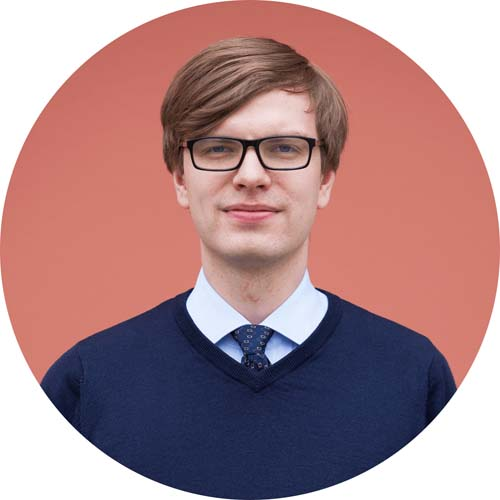
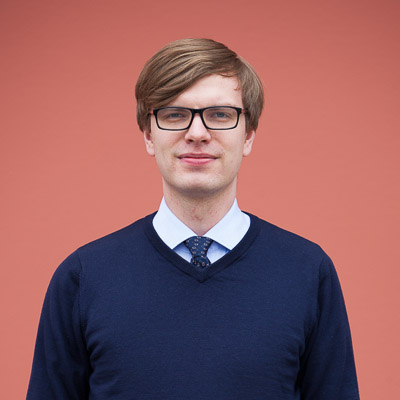
cards in progress

diff --git a/src/components/Projects.js b/src/components/Projects.js
@@ -26,48 +26,48 @@ export default class Projects extends React.Component {
                 <div className="projects">
                     <h3>2017 - WIMMA Lab</h3>
                     <div className="project">
-                    <a href="#">
-                        <div className="icon">
-                            <img src={Overflow} alt="Overflow"/>
-                        </div>
-                        <div className ="projects-text">
-                            <p>Overflow builds a Software Defined Network to Challenge Factory 2016.
-                            </p>
-                        </div>
-                    </a>
+                        <a href="#">
+                            <div className="icon">
+                                <img src={Overflow} alt="Overflow"/>
+                            </div>
+                            <div className ="projects-text">
+                                <p>Overflow builds a Software Defined Network to Challenge Factory 2016.
+                                </p>
+                            </div>
+                        </a>
                     </div>
                     <div className="project">
-                    <a href="https://iotitude.gitlab.io" target="_blank">
-                        <div className="icon">
-                            <img src={IoTitude} alt="IoTitude"/>
-                        </div>
-                        <div className ="projects-text">
-                            <p> With our service you can maintain and monitor your pipe network and collect accurate data from water flow to water levels and much more!
-                            </p>
-                        </div>
-                    </a>
+                        <a href="https://iotitude.gitlab.io" target="_blank">
+                            <div className="icon">
+                                <img src={IoTitude} alt="IoTitude"/>
+                            </div>
+                            <div className ="projects-text">
+                                <p> With our service you can maintain and monitor your pipe network and collect accurate data from water flow to water levels and much more!
+                                </p>
+                            </div>
+                        </a>
                     </div>
                     <div className="project">
-                    <a href="#">
-                        <div className="icon">
-                            <img src={PengWinGame} alt="PengWinGame"/>
-                        </div>
-                        <div className ="projects-text">
-                            <p>#wine #game #mobile #unity #pixelart
-                            </p>
-                        </div>
-                    </a>
+                        <a href="#">
+                            <div className="icon">
+                                <img src={PengWinGame} alt="PengWinGame"/>
+                            </div>
+                            <div className ="projects-text">
+                                <p>#wine #game #mobile #unity #pixelart
+                                </p>
+                            </div>
+                        </a>
                     </div>
                     <div className="project">
-                    <a href="#">
-                        <div className="icon">
-                            <img src={PengWinMedia} alt="PengWinMedia"/>
-                        </div>
-                        <div className ="projects-text">
-                            <p>Media production, web-design solutions, graphics and more.
-                            </p>
-                        </div>
-                    </a>
+                        <a href="#">
+                            <div className="icon">
+                                <img src={PengWinMedia} alt="PengWinMedia"/>
+                            </div>
+                            <div className ="projects-text">
+                                <p>Media production, web-design solutions, graphics and more.
+                                </p>
+                            </div>
+                        </a>
                     </div>
                     <div className="project">
                         <a href="#">

diff --git a/src/components/Who.js b/src/components/Who.js
@@ -19,55 +19,53 @@ export default class Who extends React.Component {
                     <div className="team-member">
                         <div className="team-header">
                             <img src={Pasihyytiainen} alt={'Pasi Hyytiäinen'} />
-                            <span className="team-icon"><LinkedIn/></span>
                         </div>
                         <div className="team-text">
                             <h4>Pasi Hyytiäinen</h4>
                             <p>Team Coach</p>
+                            <span className="team-icon"><a href="" target="_blank"><LinkedIn/></a></span>
                         </div>
                     </div>
                     <div className="team-member">
                         <div className="team-header">
                             <img src={Laurimakinen} alt={'Lauri Mäkinen'} />
-                            <span className="team-icon"><LinkedIn/></span>
                         </div>
                         <div className="team-text">
                             <h4>Lauri Mäkinen</h4>
                             <p>Head Coach</p>
+                            <span className="team-icon"><a href="" target="_blank"><LinkedIn/></a></span>
                         </div>
                     </div>
                     <div className="team-member">
                         <div className="team-header">
                             <img src={Paavonelimarkka} alt={'paavo-nelimarkka'} />
-                            <span className="team-icon"><LinkedIn/></span>
                         </div>
                         <div className="team-text">
                             <h4>Paavo Nelimarkka</h4>
                             <p>Team Coach</p>
+                            <span className="team-icon"><a href="" target="_blank"><LinkedIn/></a></span>
                         </div>
                     </div>
                     <div className="team-member">
                         <div className="team-header">
                             <img src={Juhopekki} alt={'Juho Pekki'} />
-                            <span className="team-icon"><LinkedIn/></span>
                         </div>
                         <div className="team-text">
                             <h4>Juho Pekki</h4>
                             <p>Team Coach</p>
+                            <span className="team-icon"><a href="" target="_blank"><LinkedIn/></a></span>
                         </div>
                     </div>
                     <div className="team-member">
                         <div className="team-header">
                             <img src={Narsu} alt={'narsu'} />
-                            <span className="team-icon"><LinkedIn/></span>
                         </div>
                         <div className="team-text">
                             <h4>Marko "Narsu" Rintamäki</h4>
                             <p>Product Owner</p>
+                            <span className="team-icon"><a href="" target="_blank"><LinkedIn/></a></span>
                         </div>
                     </div>
-                </div>
-                <div className="who-text">
                 </div>
             </div>
         );

diff --git a/src/styles/partials/_who.scss b/src/styles/partials/_who.scss
@@ -10,36 +10,40 @@
 }
 .team-container {
     font-size: 16px;
+    display: flex;
+    flex-wrap: wrap;
+    justify-content: center;
 }
 .team-member {
     overflow: hidden;
-    min-height: 100px;
-    max-width: 400px;
+    width: 270px;
     box-shadow: 1px 2px 5px $main-1;
     border-radius: 2px;
-    margin: 0 auto;
-    margin-bottom: 5px;
+    // margin: 0 auto;
+    margin: 5px;
     .team-header {
-        max-height: 90px;
+        height: 270px;
         overflow: hidden;
-        padding: 15px;
-        border-bottom: 1px solid $accent-1;
+        // padding: 15px;
+        // border-bottom: 1px solid $accent-1;
         img {
-            height: 60px;
-            border-radius: 50%;
+            height: 270px;
+            // border-radius: 50%;
             display: block;
-            float: left;
+            // float: left;
+            filter: grayscale(100%);
         }
-        .team-icon {
-            display: block;
-            float: right;
-            color: $main-1;
+    }
+    .team-icon {
+        // display: block;
+        // float: right;
+        color: $main-1;
+        // transition: .5s ease;
+        cursor: pointer;
+        margin-top: 15px;
+        svg {
             transition: .5s ease;
-            cursor: pointer;
-            margin-top: 10px;
-            svg {
-                font-size: 40px;
-            }
+            font-size: 40px;
             &:hover {
                 color: $accent-2;
             }
@@ -55,9 +59,6 @@
     }
     .team-text {
         padding: 15px;
+        text-align: center;
     }
-}
-.who-text {
-    display: block;
-    margin-top: 30px;
 }

diff --git a/src/components/About.js b/src/components/About.js
@@ -88,18 +88,12 @@ export default class About extends React.Component {
                        <a onClick={() => this.switchContent('who')} href="#categories" style={(this.state.content === 'who') ? {color: styles.accent2} : {}}><li>Who?</li></a>
                        <a onClick={() => this.switchContent('projects')} href="#categories" style={(this.state.content === 'projects') ? {color: styles.accent2} : {}}><li>Projects</li></a>
                    </ul>
-                   {/*
-                   <div className="latest-articles">
-                       <h3>Here latest blog posts???</h3>
-                   </div>
-                   */}
                </div>
                <span className="arrow">
-                   <a href="#for-you" style={(this.props.scrollSpy !== 'about') ? {opacity: 0, pointerEvents: 'none'} : {cursor: 'pointer'}}>
-                   <i>
-                   </i>
-               </a>
-           </span>
+                  <a href="#for-you" style={(this.props.scrollSpy !== 'about') ? {opacity: 0, pointerEvents: 'none'} : {cursor: 'pointer'}}>
+                     <i></i>
+                  </a>
+               </span>
            </section>
        );
    }

diff --git a/src/styles/partials/_about.scss b/src/styles/partials/_about.scss
@@ -76,7 +76,7 @@
         background: url('../img/cogwheelicon.svg');
         background-repeat: no-repeat;
         &:hover {
-            transform: rotate(-5deg);
+            // transform: rotate(-5deg);
         }
     }
     .whoicon {
@@ -85,7 +85,7 @@
         background: url('../img/persons.svg');
         background-repeat: no-repeat;
         &:hover {
-            transform:translate(1px);
+            // transform:translate(1px);
         }
     }
     .whaticon {
@@ -93,9 +93,9 @@
         background-size: cover;
         background: url('../img/guestionmark.svg');
         background-repeat: no-repeat;
-        transform:translateX(10px);
+        // transform:translateX(10px);
         &:hover {
-            transform: scale(1.01);
+            // transform: scale(1.01);
         }
     }
     .switch-icon {

diff --git a/src/styles/partials/_projects.scss b/src/styles/partials/_projects.scss
@@ -6,13 +6,6 @@
 .projects-content {
     min-height: 700px;
     padding: 20px 0px;
-    // display: flex;
-    a{
-        text-decoration:none;
-        &:hover{
-
-        }
-    }
     .projects {
         h3 {
             text-align: center;

diff --git a/src/styles/partials/_landing.scss b/src/styles/partials/_landing.scss
@@ -36,6 +36,7 @@
 */
     .container {
         margin: 0 auto;
+        text-align: center;
     }
     .arrow {
         @media (max-width: 767px) {
